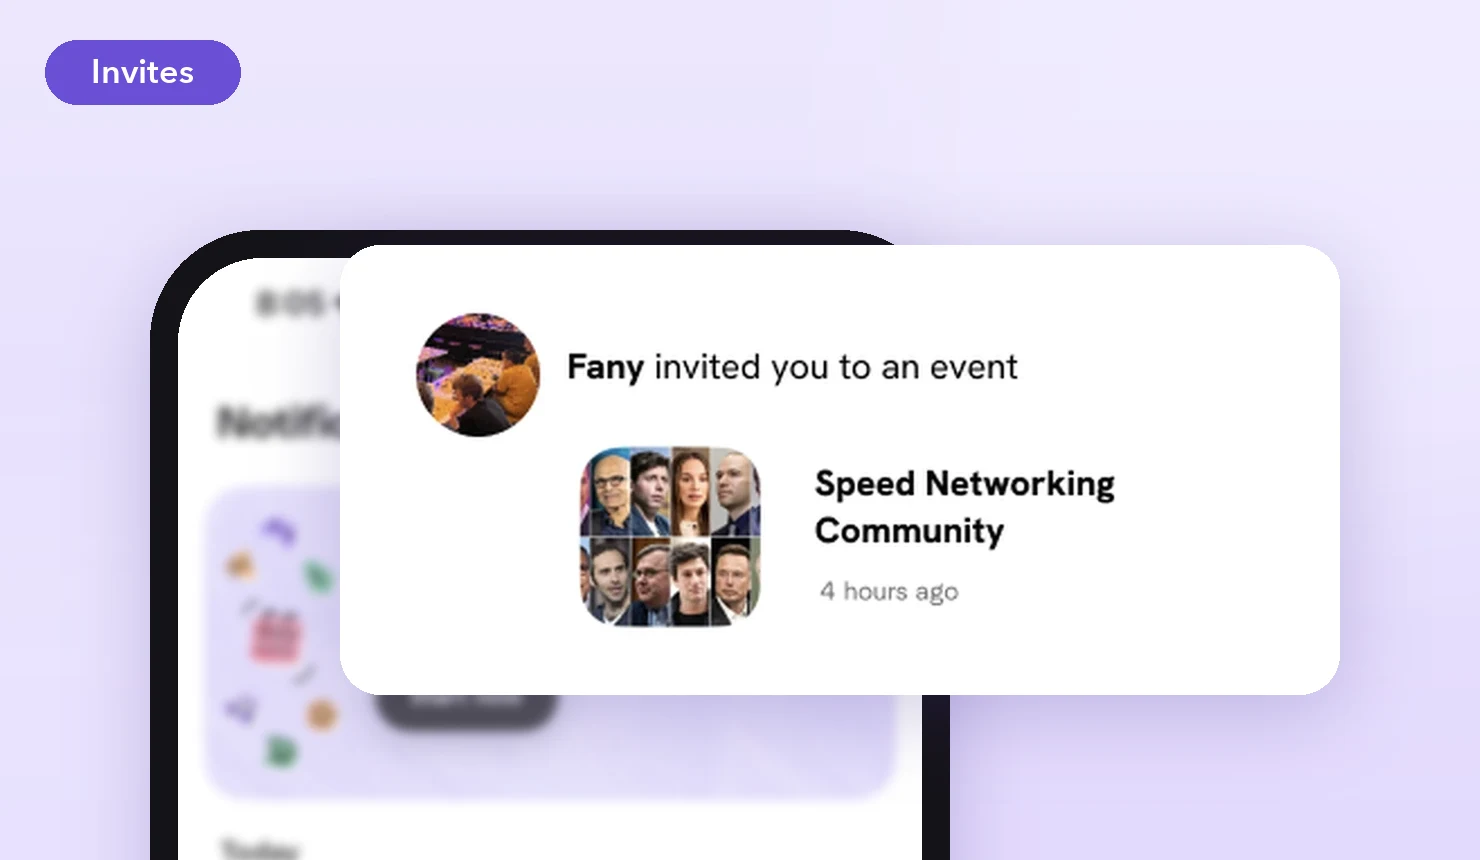
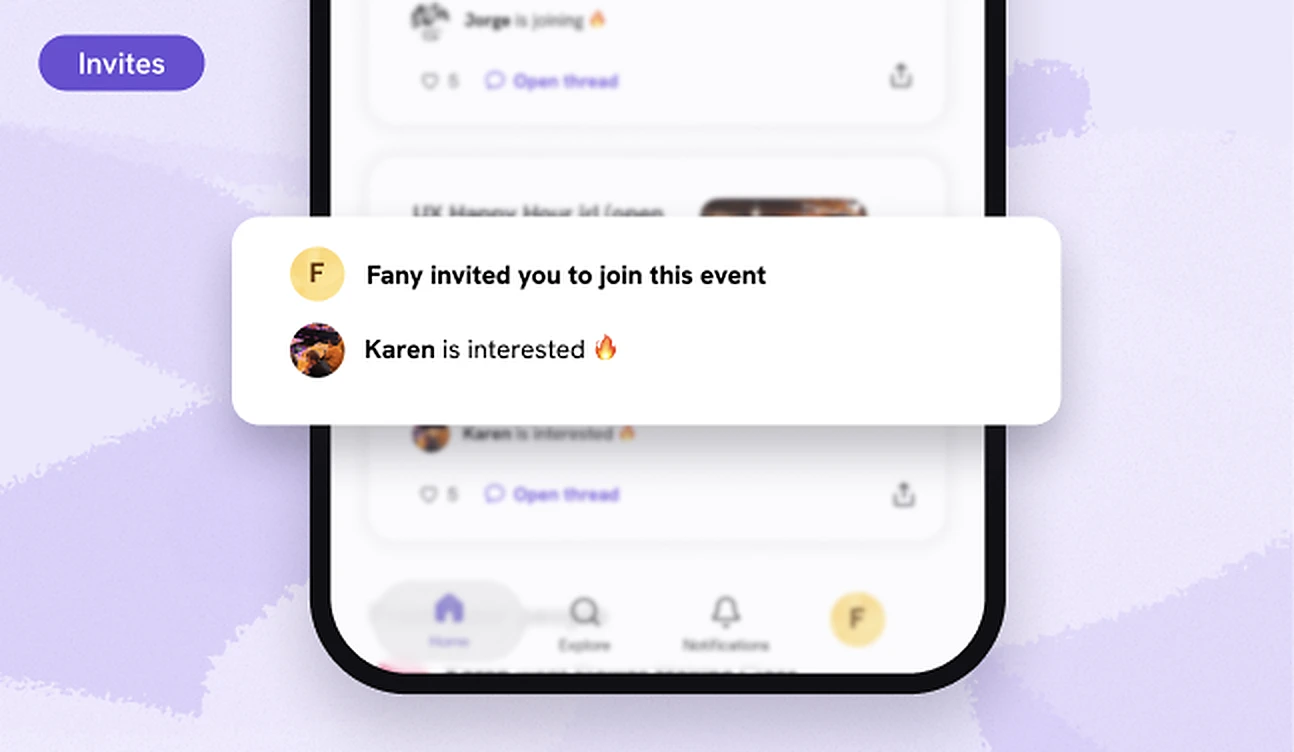
Meetup solution grid: use the four solution images from Figma

diff --git a/src/studies/meetup.js b/src/studies/meetup.js
@@ -41,9 +41,9 @@ export default {
           kind: "features",
           items: [
             { src: `${M}/solution-greeting.webp`, alt: "The home screen greets you by name: Hey Fany, new to NYC? Let’s find your people.", title: "A personal home screen", text: "The home screen talks to you, with rows titled like an invitation and how many of your friends are going to each event." },
-            { src: `${M}/solution-invites.webp`, alt: "A notification that reads Fany invited you to an event", title: "Personal invites and text blasts", text: "Josh wants to feel invited. Invites and the host’s updates now come from a person, which creates more interaction between members." },
-            { src: `${M}/solution-activity.webp`, alt: "The host’s text blast on the event’s Activity board, with Owen attending", title: "Activity board", text: "All the information about an event in one place on its page, where people post before and after the event." },
-            { src: `${M}/solution-moments.webp`, alt: "The Post your moment sheet after an event", title: "Moments", text: "A place to post photos and see everyone from your event posting theirs, so the next person can see what the event was really like." },
+            { src: `${M}/solution-updates.webp`, alt: "Josh’s text blast on the event card, with Jorge joining", title: "Organizer updates on the card", text: "The host’s text blast shows right on the event card, along with who’s joining, so updates come from a person and not from the app." },
+            { src: `${M}/solution-invites.webp`, alt: "Fany invited you to join this event, and Karen is interested", title: "Person-to-person invites", text: "Josh wants to feel invited. Invites now come from a person, and you can see who’s interested, which creates more interaction between members." },
+            { src: `${M}/solution-people.webp`, alt: "From your people: Karen went to Flower Making Class, with her photos", title: "From your people", text: "After an event, the moments posted by people you met show up for you, so you can see what the event was really like and who you might see again." },
           ],
         },
         { kind: "p", text: "I tested the prototype with two people. What they found interesting when joining an event was the short “what to expect”, the tags, and being able to see who is going. One of them also pointed out the way the thread shows a name, their text and the reactions. Both said that in real life they decide based on whether the event sounds interesting and whether someone they know is going, which is what these features try to show." },
